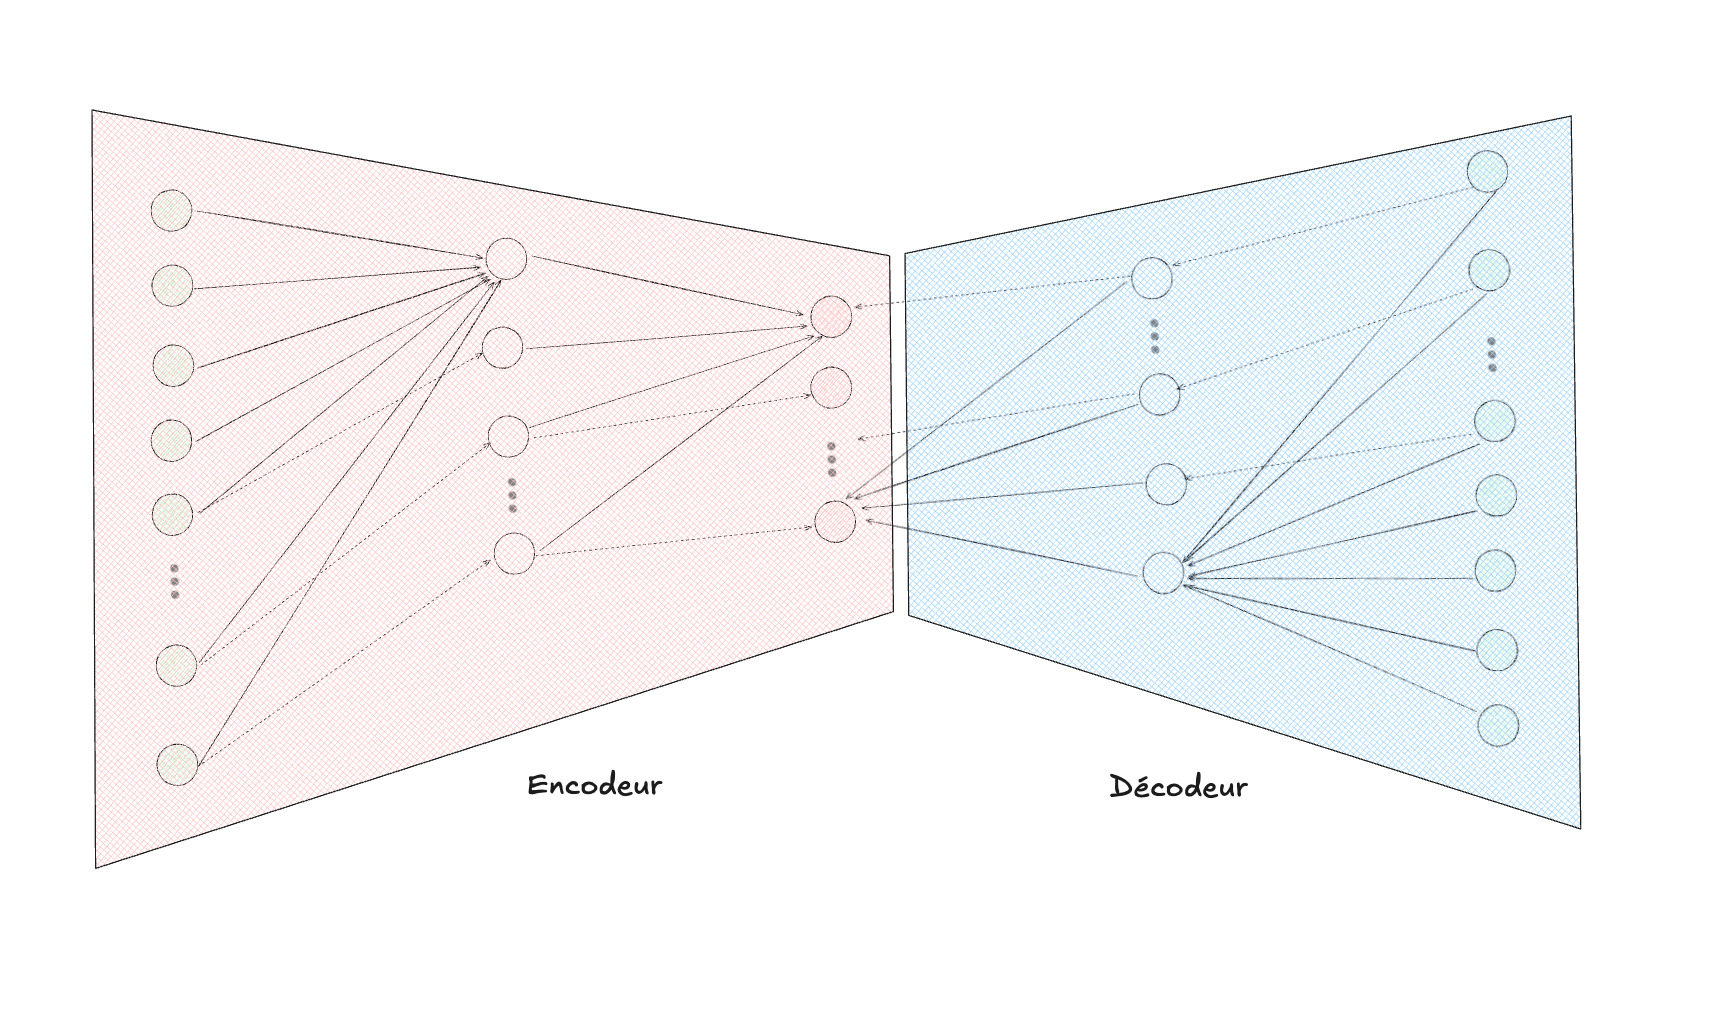
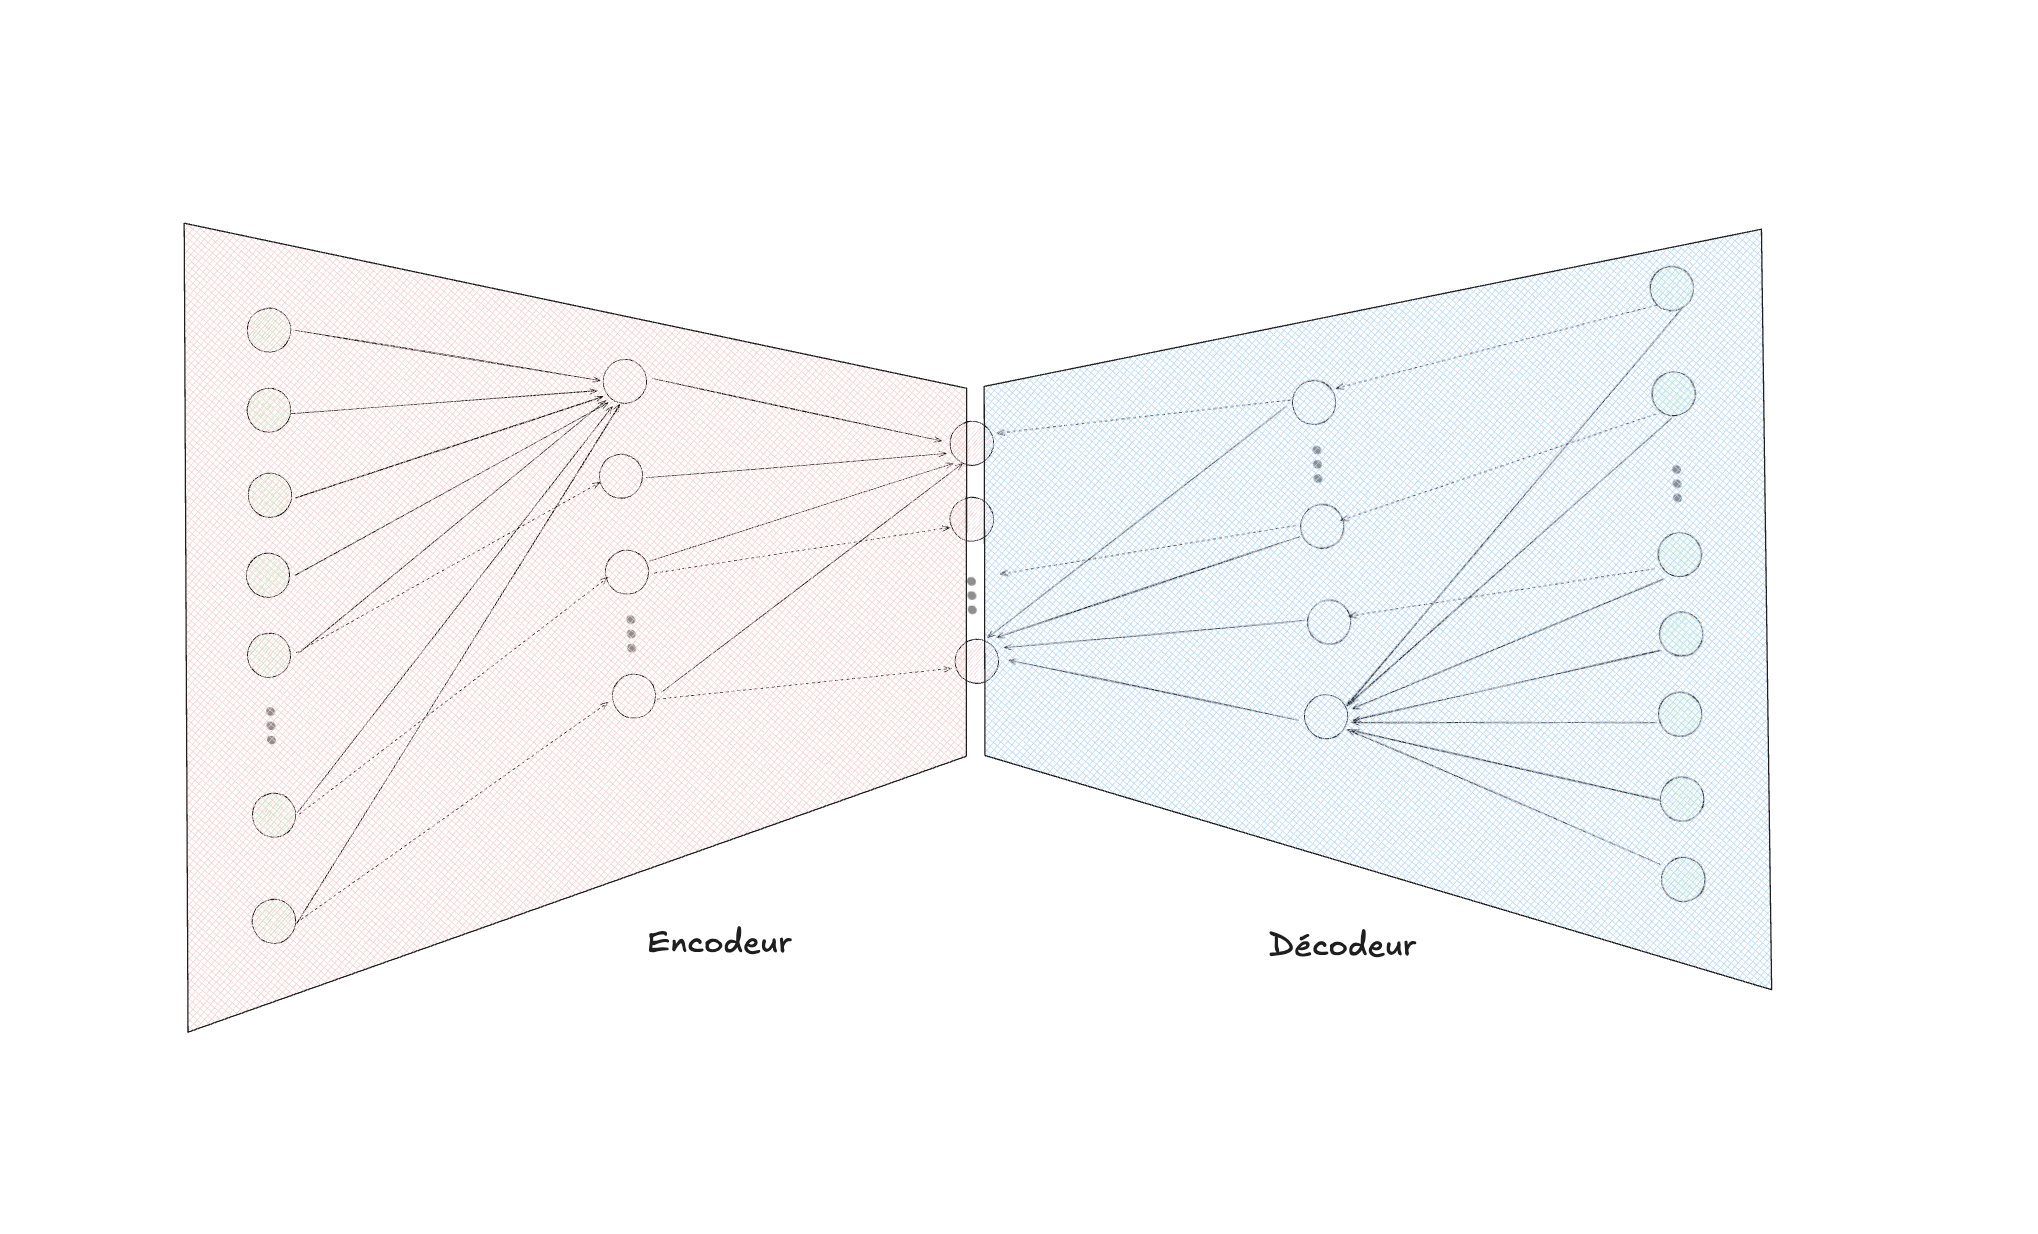
autoencodeur

Changed region(s): [[0.0309, 0.0914, 0.926, 0.8535], [0.6174, 0.762, 0.7408, 0.7925], [0.3087, 0.762, 0.4013, 0.7925]]

diff --git a/content/docs/module3/architectures-avancées.md b/content/docs/module3/architectures-avancées.md
@@ -200,6 +200,35 @@ y a une dégradation de la qualité qui peut être perceptible à des degrés va
 
 ![](/images/module3/jpeg.png)
 
+La compression effectuée par un autoencodeur est pourtant de nature très
+différente. Étant donné qu'il s'agit d'un algorithme d'apprentissage, qui
+traite de manière statistique une série d'exemples (par exemple des images de
+chien), le résultat de la compression est de nature sémantique : la
+représentation compressée obtenue sera interprétable. Par exemple, bien que ça
+ne soit pas garanti, il est très possible que les dimensions de l'espace réduit
+(latent) correspondent à des caractéristiques concrètes pouvant servir à
+l'interprétation d'une image de chien : une dimension correspondant à sa
+couleur, une autre à la position de sa tête, etc. Il est important de comprendre
+que l'espace original de l'image non-compressée, celui des pixels, ne comportent
+_pas_ cette dimension sémantique. Il en est de même de la compression JPEG, qui
+effectue son travail en prenant en considération les données d'un angle plus bas
+niveau, celui des bits d'information. La compression JPEG ne cherche qu'à optimiser
+le ratio entre le poids de l'image et sa qualité, tandis qu'un autoencodeur cherche
+plutôt à optimiser la généralité de la représentation obtenue.
+
+![](/images/module3/encoder.png)
+
+{{% hint info %}}
+
+L'auteur américain de science-fiction [Ted
+Chiang](https://fr.wikipedia.org/wiki/Ted_Chiang) a écrit un texte intéressant
+et provoquant, intitulé [ChatGPT is a blurry JPEG of the
+web](https://archive.ph/VbwGB) (en anglais seulement) qui traite de cette
+dualité entre l'intelligence humaine et artificielle, du point de vue d'une
+analogie avec la compression logicielle.
+
+{{% /hint %}}
+
 Les espaces latents sont un sujet très riches et profonds, et ils ont de
 nombreux usages en apprentissage automatique. Par exemple, nous verrons que les
 transformers, qui sont un type de réseaux de neurones profonds qui servent de
@@ -209,8 +238,13 @@ usage. Nous avons déjà brièvement touché ce sujet dans la section sur les
 "docs/module2/les-données/#vers-des-représentations-plus-compactes--les-plongements-lexicaux"
 >}}) (word embeddings).
 
+<!--
 
-![](/images/module3/encoder.png)
+## Les machines de Turing neuronales (ou dérivables)
+
+La dernière architecture que nous allons explorer dans ce module est celle des machines de Turing neuronales
+
+-->
 
 <!--
 Si on revient à l'exemple de nos données qui seraient des images, il est important de
